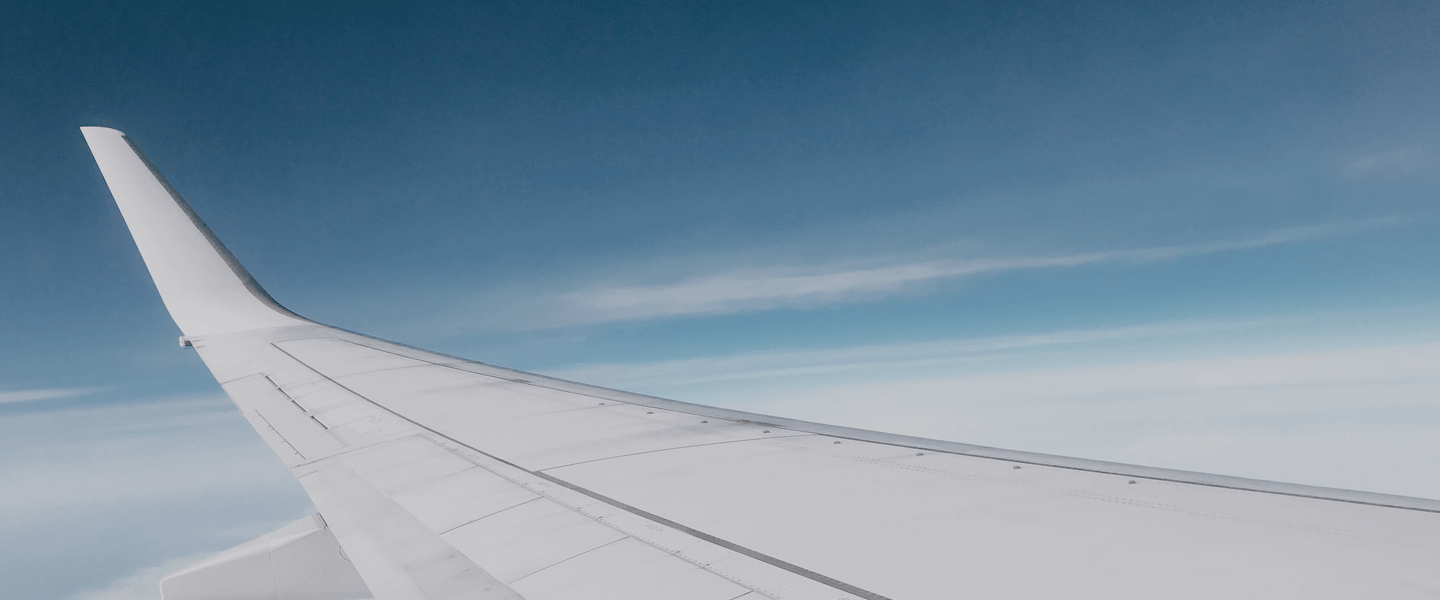
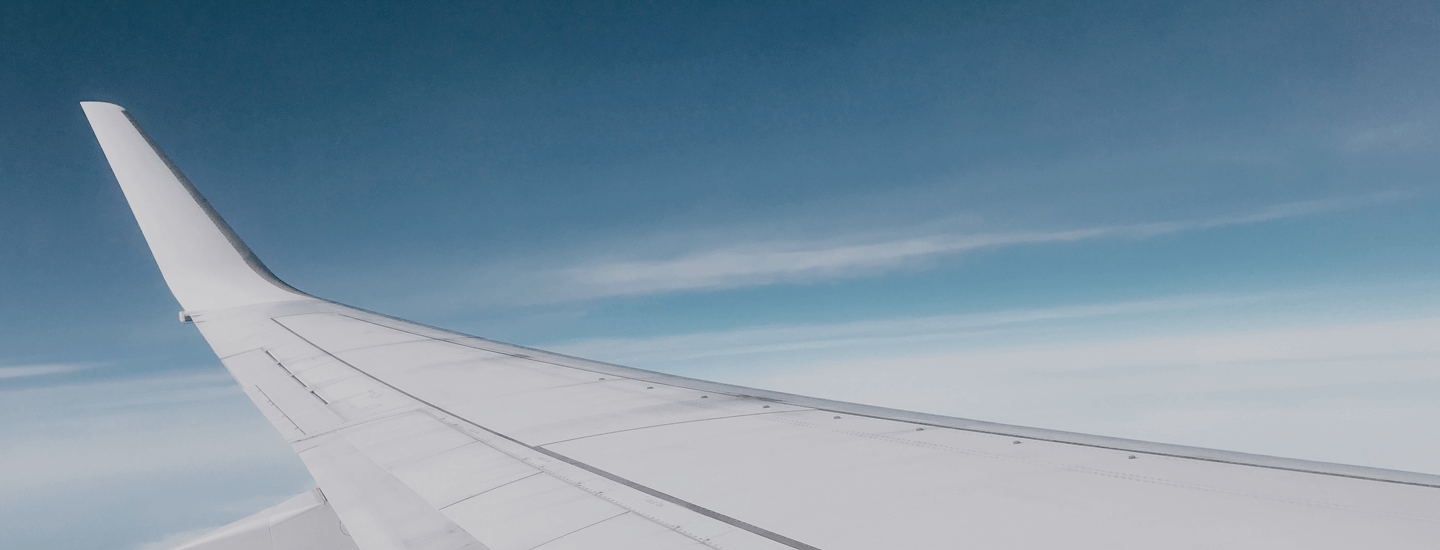
Change home page

diff --git a/src/Pages/Home.js b/src/Pages/Home.js
@@ -127,14 +127,14 @@ class Home extends Component {
                 <div className="description-container">
                     <div className="container-grid-block full-height">
                         <div className="list-aligner">
-                            <div className="row">
+                            <div className="row flexed-row">
                                 <div className="col-lg-4 col-md-4 col-sm-4 col-xs-12  full-height">
                                     <div className="list__item-wrapper">
                                         <div className="list__itemImage-wrapper">
                                             <div  className="list__itemImage-img" id="image-content-1"/>
                                         </div>
                                         <div className="list_itemText-font">
-                                            TMQR focuses on systematic implementation of trading strategies which humans create through rigorous research.                                        
+                                            TMQR focuses on systematic implementation of trading strategies which humans create through rigorous research.                                  
                                         </div>
                                     </div>
                                     <div className="list__item-wrapper">
@@ -142,7 +142,7 @@ class Home extends Component {
                                             <div  className="list__itemImage-img" id="image-content-2"/>
                                         </div>
                                         <div className="list_itemText-font">
-                                            TMQR focuses on systematic implementation of trading strategies which humans create through rigorous research.                                        
+                                            TMQR relies on the research, analysis and development of trading strategies, as well as the technology, provided by Trend Management Limited.                                        
                                         </div>
                                     </div>
                                 </div>
@@ -152,7 +152,7 @@ class Home extends Component {
                                             <div  className="list__itemImage-img" id="image-content-3"/>
                                         </div>
                                         <div className="list_itemText-font">
-                                            TMQR focuses on systematic implementation of trading strategies which humans create through rigorous research.                                        
+                                            TMQR employs a scientific method that is aided by technology and specialized math to drive trading decisions. It is our goal to remove much of the subjectivity, arbitrariness and lack of discipline in trade selection, strategy development and assessment found in discretionary trading.                                        
                                         </div>
                                     </div>                                </div>
                                 <div className="col-lg-4 col-md-4 col-sm-4 col-xs-12 full-height">
@@ -161,7 +161,7 @@ class Home extends Component {
                                             <div  className="list__itemImage-img" id="image-content-4"/>
                                         </div>
                                         <div className="list_itemText-font">
-                                            TMQR focuses on systematic implementation of trading strategies which humans create through rigorous research.                                        
+                                            TMQR searches for "Edge" through indepth and ongoing research. Of utmost importance is our team's ability to efficiently translate this research into actionable trading strategies.                                      
                                         </div>
                                     </div>
                                     <div className="list__item-wrapper">
@@ -169,14 +169,14 @@ class Home extends Component {
                                             <div  className="list__itemImage-img" id="image-content-5"/>
                                         </div>
                                         <div className="list_itemText-font">
-                                            TMQR focuses on systematic implementation of trading strategies which humans create through rigorous research.                                        
+                                            TMQR's creative approach to problem solving emphasizes precision, deep thought and thoroughness.                                   
                                         </div>
                                     </div>                                </div>
                             </div>
                         </div>
                     </div>
                 </div>
-                <div className="footer-container">
+                <div className="footer-container foo-home">
                     <Footer />
                 </div>
             </div>

diff --git a/src/Pages/css/Home.css b/src/Pages/css/Home.css
@@ -46,6 +46,7 @@
     background-image: url('../../../public/images/home/img-content-5.png')
 }
 
+
 .full-height {
     height: 100%; 
 }
@@ -54,10 +55,7 @@
 
     background-size: cover; 
     background-repeat: no-repeat; 
-    height: 60%;   
-    position: absolute;
-    left: 0;
-    right: 0; 
+    height:550px;   
     background-position: 0 100%; 
     transition: background-image .3s ease-in-out; 
 }   
@@ -72,6 +70,7 @@
     -webkit-justify-content: flex-start;
     justify-content: flex-start;
     padding: 0 10%;
+    position: relative;
 }
 .title-container {
     font-weight: 800; 
@@ -86,11 +85,6 @@
     text-align: left;
     font-weight: 600;
 }
-/*.list__itemImage-img{
-    width: 100%;
-    height: 350px;
-}*/
-
 .main-title-small {
     font-size: 30px; 
     color: #fff; 
@@ -134,12 +128,11 @@
 }
 
 .description-container {
-    background: #212121;
-    position: absolute;
-    height: 40%;
-    width: 100%;
-    top: 60%;
-    
+    background-image: url('../../../public/images/home/home_bg.png');
+    background-size: cover;
+    background-position: 0;
+    padding: 45px 0;
+    width: 100%; 
 }
 
 .list-aligner {
@@ -150,7 +143,10 @@
         align-items: center; 
     padding-left: 10px; 
 }
-
+.flexed-row{
+    display: flex;
+    align-items: center;
+}
 .list-container-home {
     color: #fff; 
 } 
@@ -161,8 +157,29 @@
     margin-right: 10px;
     margin-left: -20px; 
 } 
-
-
+.list__item-wrapper{
+    margin-bottom:45px;
+}
+.list__itemImage-img{
+    width: 100%;
+    height: 199px;
+    background-size: cover;
+    background-repeat: no-repeat;
+    background-position: 50%;
+    margin-bottom: 15px;
+    border-radius: 5px;
+}
+.single-col .list__itemImage-img{
+    height: 275px;
+}
+.list_itemText-font{
+    font-size:14px;
+    color:white;
+    font-weight: 300;
+    font-family:"Roboto",sans-serif;
+    letter-spacing: 0.03em;
+    line-height: 1.4;
+}
 .disclaimer {
     height: 75px; 
     background: #484848;
@@ -209,7 +226,10 @@
 .slider-controls div.active {
      background: #fff; 
 }
+.foo-home{
+    position: static;
 
+}
 @media screen and (max-width: 1600px) {
     .nav-item {
         padding-left: 10px; 
@@ -235,25 +255,25 @@
     }
 
     .main-btn {
-        margin-top: 0; 
+        margin-top: 0px; 
     }
 } 
 
 
 @media screen and (max-width: 767px) { 
-
+    .flexed-row{
+        flex-direction: column;
+        padding: 0 20%;
+    }
     .bg-container {
-        height: 400px;   
+        height: 500px;   
     }
 
     .main-title {
         font-size: 30px
     } 
 
-    .description-container {
-        height: 500px; 
-        top: 400px; 
-    }
+
 
     .footer-container {
         top: 900px; 
@@ -273,9 +293,12 @@
 } 
 
 @media screen and (max-width: 500px) {
-    .description-container {
-        height: 600px; 
-        top: 400px; 
+    .flexed-row{
+        padding: 0 5%;
+    }
+    .main-btn{margin-top: 60px;}
+    .list_itemText-font{
+        text-align: justify;
     }
 
     .footer-container {
@@ -305,10 +328,6 @@
 } 
 
 @media screen and (max-width: 375px) {
-    .description-container {
-        height: 800px; 
-        top: 400px; 
-    }
 
     .footer-container {
         top: 1200px; 
@@ -325,17 +344,12 @@
 
 @media screen and (max-height: 800px) and (min-width: 600px) {
     .bg-container {
-        height: 400px;   
+        height: 500px;   
     }
 
     .main-title {
         font-size: 30px
     } 
-
-    .description-container {
-        height: 500px; 
-        top: 400px; 
-    }
 
     .footer-container {
         top: 900px; 
@@ -353,7 +367,7 @@
     }
 
     .main-btn {
-        margin-top: 0; 
+        margin-top: 60px; 
     }
 
 }

diff --git a/src/Components/MainChart.js b/src/Components/MainChart.js
@@ -156,9 +156,9 @@ export default class Chart extends Component {
                 "bulletBorderAlpha": 1,
                 "bulletColor": "#FFFFFF",
                 "hideBulletsCount": 50,
+                "useLineColorForBulletBorder": true,
                 "title": "Equity",
                 "valueField": "equity",
-                "useLineColorForBulletBorder": true,
                 "balloon": {
                     "drop": false
                 }
@@ -175,12 +175,17 @@ export default class Chart extends Component {
                 "lineAlpha": 1,
                 "fillAlphas": 0,
                 "lineThickness": 2,
+                                "bullet": "round",
+                "bulletBorderAlpha": 1,
+                "bulletColor": "#FFFFFF",
+                "hideBulletsCount": 50,
+                "useLineColorForBulletBorder": true,
                 "lowField": "l",
                 "negativeFillColors": "#db4c3c",
                 "negativeLineColor": "#db4c3c",
                 "openField": "o",
                 "title": "Underlying future",
-                "type": "ohlc",
+
                 "valueField": "c",
                 "balloon": {
                     "drop": false

diff --git a/src/Pages/Series.js b/src/Pages/Series.js
@@ -35,7 +35,6 @@ export default class Series extends Component {
                 starting_value: '',
                 end_value: '',
                 total_cost: '',
-                total_number_of_trades: '',
                 max_delta: '',
                 average_delta: '',
                 deltaRendered: false
@@ -125,7 +124,7 @@ export default class Series extends Component {
                         this.props.campaign_detail[prop] = this.props.campaign_detail[prop].replace('T00:00:00', '');
                     }
 
-                    if (prop == 'total_cost' || prop == 'total_number_of_trades' || prop == 'max_drawdown' || prop == 'end_value' || prop == 'starting_value') {
+                    if (prop == 'total_cost' || prop == 'max_drawdown' || prop == 'end_value' || prop == 'starting_value') {
                         if (val != 0) { val = numberWithCommas(val) };
 
 
